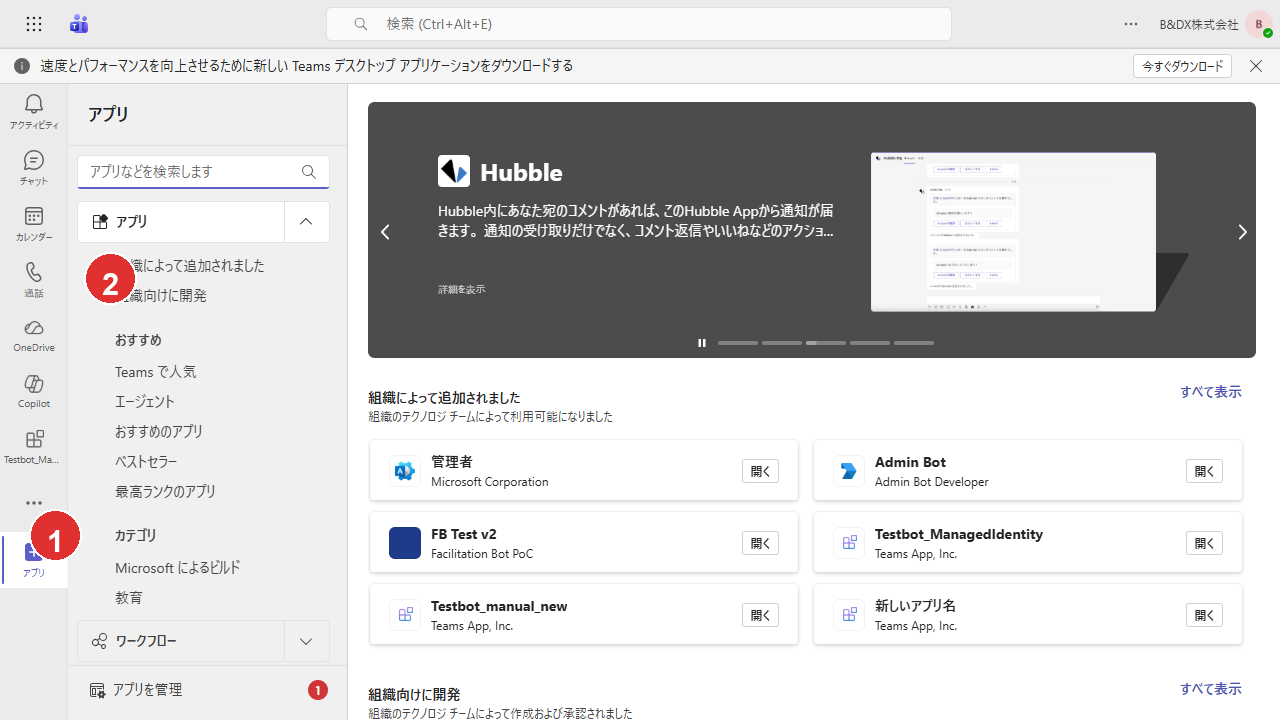
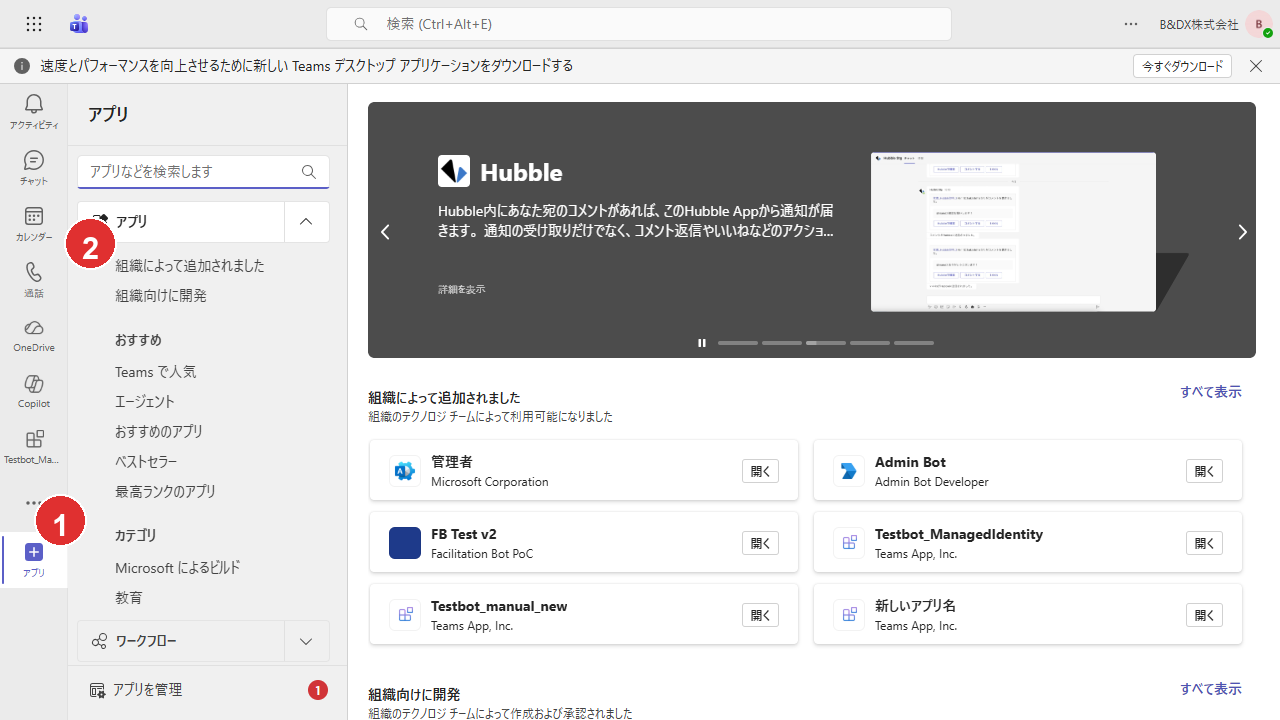
docs: adjust annotation positions on setup guide screenshots
- step08_1: move icons to left edge, reduce overlap
- step08_3: shift annotations upward
- step14_2: reposition to search bar and app name
- step15_4: shift annotations upward
- step15_5: shift both annotations up+left
- step15_8: shift all 4 annotations upward, reduce circle size,
  center number text within circles
- Add RADIUS_OVERRIDE dict and per-file radius support

Changed region(s): [[0.0312, 0.3056, 0.125, 0.4278], [0.0, 0.6722, 0.0625, 0.7944]]

diff --git a/rag-maintenance/docs/scripts/annotate_screenshots.py b/rag-maintenance/docs/scripts/annotate_screenshots.py
@@ -14,23 +14,23 @@ OUT = os.path.join(BASE, "annotated")
 # x, y = center of the red circle (pixel coordinates)
 ANNOTATIONS = {
     # Step 10.2/10.3: Toolkit sidebar
-    # 352x1031 — 左端のため右上に配置
+    # 352x1031 — M365アイコン(y≈384-405)は左端のため右上に配置
     "step08_1_toolkit_sidebar.png": [
-        (48, 430, "1"),   # M365 Agents Toolkit icon (右上に配置、左端で見切れ防止)
-        (135, 220, "2"),  # "新しいエージェント/アプリの作成" button (左上)
+        (18, 350, "1"),   # M365 Agents Toolkit icon (左端ギリギリ、アイコンの上)
+        (70, 210, "2"),   # "新しいエージェント/アプリの作成" button (左寄せ)
     ],
     # Step 10.6: Provision completed
     # 344x998 — 各セクションの左上に配置
     "step08_3_provision_completed.png": [
-        (55, 35, "1"),    # ACCOUNTS section (左上)
-        (55, 185, "2"),   # ENVIRONMENT section (左上)
+        (55, 20, "1"),    # ACCOUNTS section (左上、上にずらし)
+        (55, 165, "2"),   # ENVIRONMENT section (左上、上にずらし)
         (55, 445, "3"),   # LIFECYCLE section (左上)
     ],
     # Step 16.4: Admin center app list
     # 1914x991
     "step14_2_admin_app_list.png": [
-        (100, 730, "1"),  # App list row (左上)
-        (1690, 730, "2"), # "maintenance-bot..." app name (左上)
+        (1480, 672, "1"), # 検索欄「maintenance-botdev」(左上)
+        (340, 750, "2"),  # maintenance-bot行のアプリ名(左上)
     ],
     # Step 16.4: Admin center publish button
     # 1919x908 — button color RGB(91,95,199) at x:740-840, y:320-360
@@ -45,14 +45,14 @@ ANNOTATIONS = {
     # Step 17.5: Teams app store
     # 1280x720 — 左端のため右上に配置
     "step15_4_apps_store.png": [
-        (55, 535, "1"),   # "アプリ" icon (右上に配置、左端で見切れ防止)
-        (110, 278, "2"),  # "組織向けに開発" category (左上)
+        (60, 520, "1"),   # "アプリ" icon (右上に配置、上にずらし+少し右)
+        (90, 243, "2"),   # "組織向けに開発" category (左上、さらに上にずらし)
     ],
     # Step 17.5: Org apps list
     # 1280x720
     "step15_5_org_apps.png": [
-        (840, 375, "1"),  # "maintenance-botdev" app card (左上)
-        (1190, 383, "2"), # "追加" button (左上)
+        (820, 355, "1"),  # "maintenance-botdev" app card (左上、上+左にずらし)
+        (1170, 363, "2"), # "追加" button (左上、上+左にずらし)
     ],
     # Step 17.5: App detail → "追加"
     # 1280x720
@@ -62,16 +62,24 @@ ANNOTATIONS = {
     # Step 17.5: Bot Adaptive Card response
     # 1280x720
     "step15_8_bot_response.png": [
-        (230, 178, "1"),  # Card title "事務改定 影響候補検出" (左上)
-        (290, 248, "2"),  # Tab area シナリオ (左上)
-        (235, 298, "3"),  # Category checkboxes (左上)
-        (235, 562, "4"),  # Search mode buttons (左上)
+        (230, 163, "1"),  # Card title "事務改定 影響候補検出" (左上、上にずらし)
+        (290, 233, "2"),  # Tab area シナリオ (左上、上にずらし)
+        (235, 278, "3"),  # Category checkboxes (左上、上にずらし)
+        (235, 537, "4"),  # Search mode buttons (左上、上にずらし)
     ],
 }
 
 
-def get_circle_radius(img_width: int) -> int:
+# 画像ファイル名ごとの半径オーバーライド
+RADIUS_OVERRIDE = {
+    "step15_8_bot_response.png": 20,  # 少し小さめ
+}
+
+
+def get_circle_radius(img_width: int, filename: str = "") -> int:
     """Image width に応じた注釈円の半径を返す"""
+    if filename in RADIUS_OVERRIDE:
+        return RADIUS_OVERRIDE[filename]
     if img_width < 500:
         return 16
     elif img_width < 1000:
@@ -110,7 +118,7 @@ def draw_annotation(draw: ImageDraw.Draw, x: int, y: int, number: str,
     tw = text_bbox[2] - text_bbox[0]
     th = text_bbox[3] - text_bbox[1]
     tx = x - tw / 2
-    ty = y - th / 2 - 1  # slight upward adjustment for visual centering
+    ty = y - th / 2 - 2  # upward adjustment for visual centering
     draw.text((tx, ty), number, fill="white", font=font)
 
 
@@ -123,7 +131,7 @@ def annotate_image(filename: str, annotations: list):
 
     img = Image.open(src).convert("RGBA")
     w, h = img.size
-    radius = get_circle_radius(w)
+    radius = get_circle_radius(w, filename)
     font_size = int(radius * 1.3)
     font = get_font(font_size)
 
